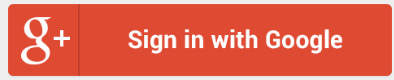
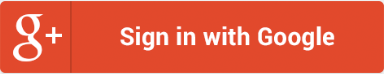
add googleplus.png

Changed region(s): [[0.0, 0.0, 1.0, 1.0], [0.3125, 0.3514, 0.875, 0.7027]]

diff --git a/compromise/templates/index.html b/compromise/templates/index.html
@@ -18,7 +18,7 @@
 		<img width="220px" SRC="../static/img/stage4.png"></a>
 	</div>
 	<div>
-	<center><h3>Попробуй сейчас! Войди с помощью <a href="{% url 'socialauth_begin' 'google-oauth2' %}" title="Войти через Google"><img width="100px" src="../static/img/gmail.png" /></a>
+	<center><h3>Попробуй сейчас! Войди с помощью <a href="{% url 'socialauth_begin' 'google-oauth2' %}" title="Войти через Google"><img width="100px" src="../static/img/googleplus.png" /></a>
 
 	<a href="https://oauth.yandex.ru/authorize?response_type=code&client_id=bed4f2696a58489c8e9c7524b10b0681" title="Яндекс"><img width="100px" SRC="../static/img/yandex.png"></a>
 	</h3></center>
